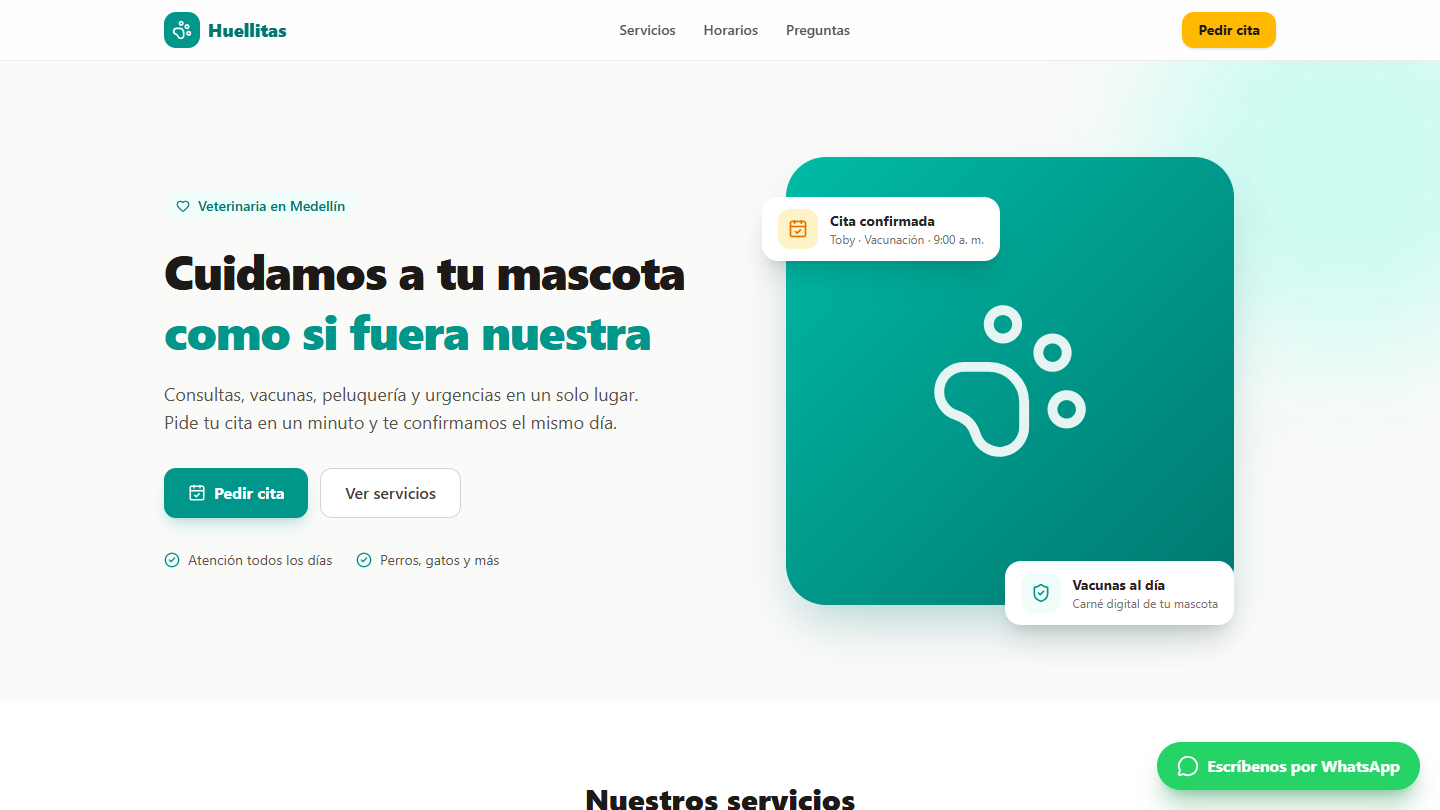
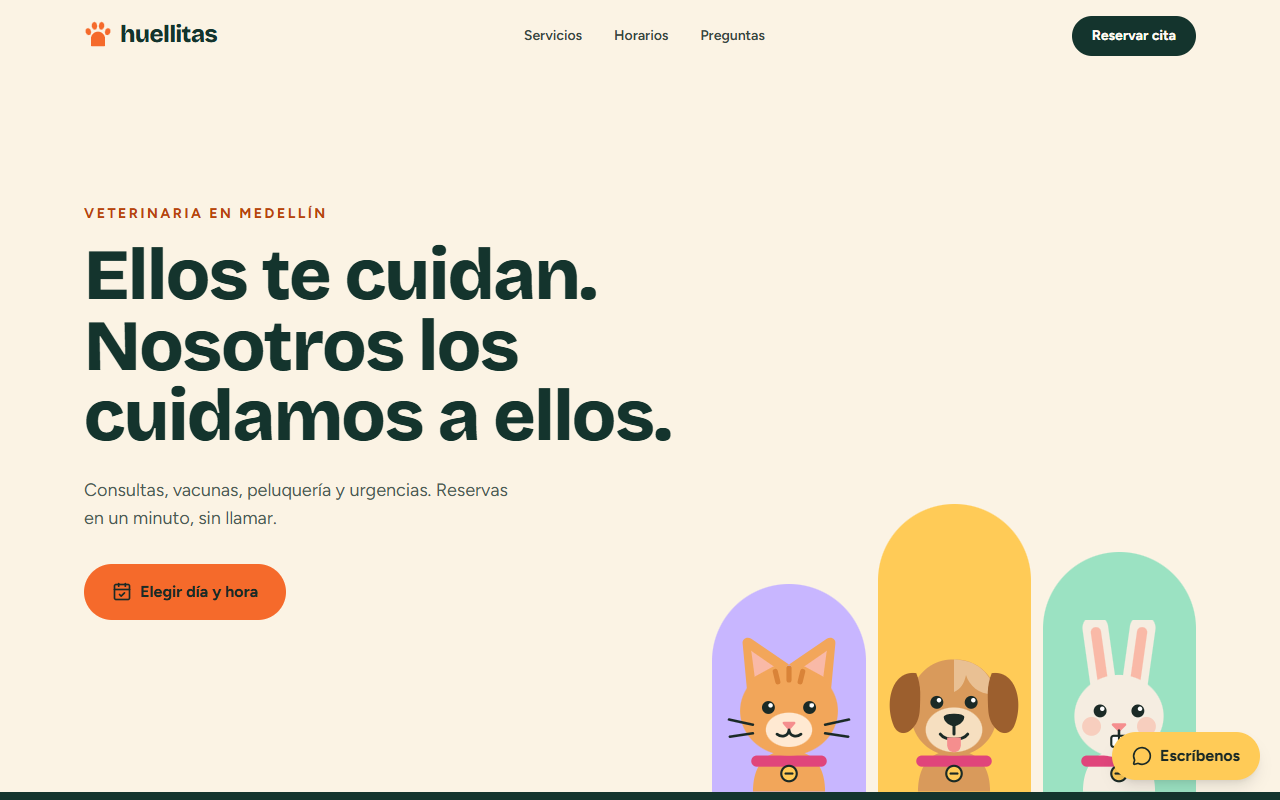
Proyectos al día: cifras, funciones y capturas nuevas
- ElCuaderno: granel, caja con cierre, equipo y registro de tiendas; 116 pruebas, 100 en
  accesibilidad y SEO, 17 decisiones; capturas nuevas.
- CuentasClaras: sobres, deudas con personas, pagos fijos y metas; 127 pruebas, 100 en
  accesibilidad, SEO y buenas prácticas; capturas con la identidad nueva.
- Huellitas: roles, historia clínica y carné de vacunas; 190 pruebas; capturas del rediseño.
- RitmoApp 233 pruebas. Inicio: 666 pruebas y 129 Pull Requests unidos.

diff --git a/src/data/proyectos.js b/src/data/proyectos.js
@@ -21,15 +21,15 @@ export const proyectos = [
     problema:
       'Las apps de los bancos solo muestran lo que pasa por ese banco. El efectivo y las billeteras digitales quedan por fuera, y a fin de mes nadie sabe en qué se fue la plata.',
     solucion:
-      'Una app web para registrar ingresos y gastos por cuenta y categoría, pasar plata entre cuentas propias, ponerse presupuestos con alertas al 80 % y al 100 %, ver el mes en gráficas y exportar todo a Excel.',
+      'Una app web para registrar ingresos y gastos por cuenta, ponerse presupuestos que se dibujan como sobres que se vacían al gastar, llevar las deudas con amigos y familia ("cuentas claras"), recordar los pagos fijos del mes y ahorrar para metas. Tiene identidad propia con los colores de los billetes colombianos.',
     reto:
       'Que la plata siempre cuadre: montos con BigDecimal (nunca double), saldos calculados y transferencias atómicas. Si una parte falla, no se guarda ninguna. Lo compruebo con una prueba que fuerza el error.',
     cifras: [
-      { valor: '70', texto: 'pruebas contra PostgreSQL real' },
-      { valor: '10', texto: 'Pull Requests con CI en verde' },
-      { valor: '28', texto: 'endpoints documentados en Swagger' },
+      { valor: '127', texto: 'pruebas: JUnit con Testcontainers, Vitest y Playwright' },
+      { valor: '100', texto: 'en accesibilidad, SEO y buenas prácticas (Lighthouse)' },
+      { valor: '13', texto: 'decisiones de diseño documentadas' },
     ],
-    stack: ['Java 21', 'Spring Boot', 'Spring Security', 'JPA', 'Flyway', 'PostgreSQL', 'React', 'Testcontainers', 'Docker'],
+    stack: ['Java 21', 'Spring Boot', 'Spring Security', 'JPA', 'Flyway', 'PostgreSQL', 'React', 'Testcontainers', 'Playwright', 'Docker'],
     demo: 'https://cuentasclaras-demo.vercel.app',
     codigo: `${gh}/CuentasClaras`,
     imagen: ccResumen,
@@ -50,7 +50,7 @@ export const proyectos = [
     reto:
       'Sin sobrecupo aunque dos personas reserven el último cupo al mismo tiempo (UPDATE condicional dentro de una transacción), y cada academia totalmente aislada de las demás desde la capa de datos.',
     cifras: [
-      { valor: '182', texto: 'pruebas con Jest, Supertest y Vitest' },
+      { valor: '233', texto: 'pruebas con Jest, Supertest y Vitest' },
       { valor: '4', texto: 'roles con permisos distintos' },
       { valor: '0', texto: 'sobrecupos bajo concurrencia' },
     ],
@@ -71,15 +71,15 @@ export const proyectos = [
     problema:
       'En la tienda de barrio se fía y se anota en un cuaderno. Ahí se pierden las cuentas: nadie sabe cuánto debe cada vecino, qué se está acabando ni cuánto se ganó en el día.',
     solucion:
-      'Un punto de venta para el celular del mostrador: ventas en efectivo, Nequi o fiado, inventario que se descuenta solo, cupo de fiado por cliente, abonos y el cierre de caja del día con la ganancia real.',
+      'Un punto de venta para el celular del mostrador: ventas en efectivo, Nequi o fiado, venta a granel por peso, inventario que se descuenta solo, cupo de fiado por vecino, caja con base, gastos y cierre, reportes, una bitácora que nadie puede borrar y un equipo de cajeros que la dueña maneja. Cualquier tienda se registra sola.',
     reto:
-      'TypeScript de punta a punta con los mismos esquemas Zod validando el formulario y la API, y sin sobreventa ni fiados por encima del cupo aunque dos cajeros vendan al mismo tiempo (UPDATE condicional y SELECT ... FOR UPDATE).',
+      'Sin sobreventa ni fiados por encima del cupo aunque dos cajeros vendan al mismo tiempo (UPDATE condicional y SELECT ... FOR UPDATE), con los mismos esquemas Zod validando el formulario y la API. Si la dueña desactiva a un cajero, su sesión se cierra al instante.',
     cifras: [
-      { valor: '27', texto: 'pruebas contra PostgreSQL real' },
-      { valor: '2', texto: 'roles: dueña y cajero' },
-      { valor: '1', texto: 'esquema Zod por regla, en front y back' },
+      { valor: '116', texto: 'pruebas: Jest contra PostgreSQL, Vitest y Playwright' },
+      { valor: '100', texto: 'en accesibilidad y SEO (Lighthouse)' },
+      { valor: '17', texto: 'decisiones de diseño documentadas' },
     ],
-    stack: ['TypeScript', 'NestJS', 'Drizzle ORM', 'PostgreSQL', 'Zod', 'React', 'TanStack Query', 'Tailwind CSS', 'Jest'],
+    stack: ['TypeScript', 'NestJS', 'Drizzle ORM', 'PostgreSQL', 'Zod', 'React', 'TanStack Query', 'Tailwind CSS', 'Jest', 'Playwright'],
     demo: 'https://elcuaderno-demo.vercel.app',
     codigo: `${gh}/ElCuaderno`,
     imagen: ecVender,
@@ -96,15 +96,15 @@ export const proyectos = [
     problema:
       'Las veterinarias de barrio reciben las citas por llamadas y por WhatsApp a cualquier hora. Los mensajes se pierden, se repiten las mismas preguntas todo el día y nadie tiene la agenda en un solo lugar.',
     solucion:
-      'Una página web donde el cliente pide su cita en un minuto, un panel para que el negocio las atienda, y un asistente de WhatsApp que responde servicios y horarios, toma los datos de la cita y la deja en el mismo panel. Si hace falta, pasa la conversación a una persona.',
+      'Una página web donde el cliente pide su cita en un minuto y la cambia con un enlace, un panel con roles (administración, veterinario y recepción) con historia clínica y carné de vacunas, y un asistente de WhatsApp que responde servicios y horarios, toma los datos de la cita y la deja en el mismo panel. Si hace falta, pasa la conversación a una persona.',
     reto:
       'Que el asistente sea seguro y no dependa de una IA: un motor de conversación propio guarda cada paso, el webhook de WhatsApp verifica la firma de Meta y la IA (Claude) es opcional, solo para entender mensajes libres.',
     cifras: [
-      { valor: '20', texto: 'pruebas con Jest y Supertest' },
+      { valor: '190', texto: 'pruebas: Jest, Vitest y Playwright' },
+      { valor: '3', texto: 'roles en el panel del negocio' },
       { valor: '2', texto: 'canales: web y WhatsApp' },
-      { valor: '1', texto: 'panel para todas las citas' },
     ],
-    stack: ['React', 'Tailwind CSS', 'Node.js', 'Express', 'Prisma', 'PostgreSQL', 'WhatsApp Cloud API', 'Jest'],
+    stack: ['React', 'Tailwind CSS', 'Node.js', 'Express', 'Prisma', 'PostgreSQL', 'WhatsApp Cloud API', 'Jest', 'Playwright'],
     demo: 'https://huellitas-veterinaria.vercel.app',
     codigo: `${gh}/landing-panel-backend`,
     imagen: huInicio,
